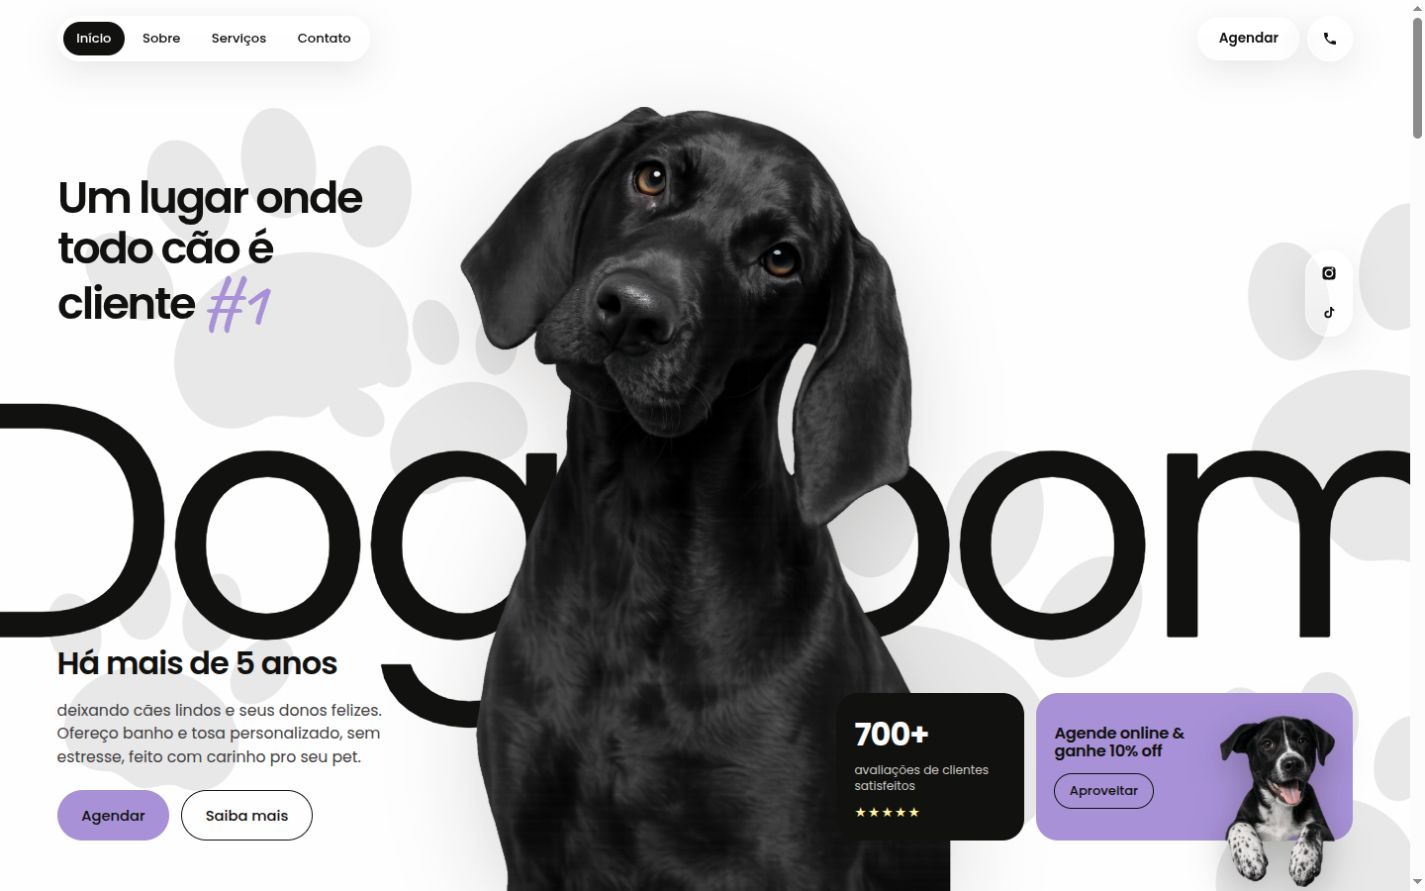
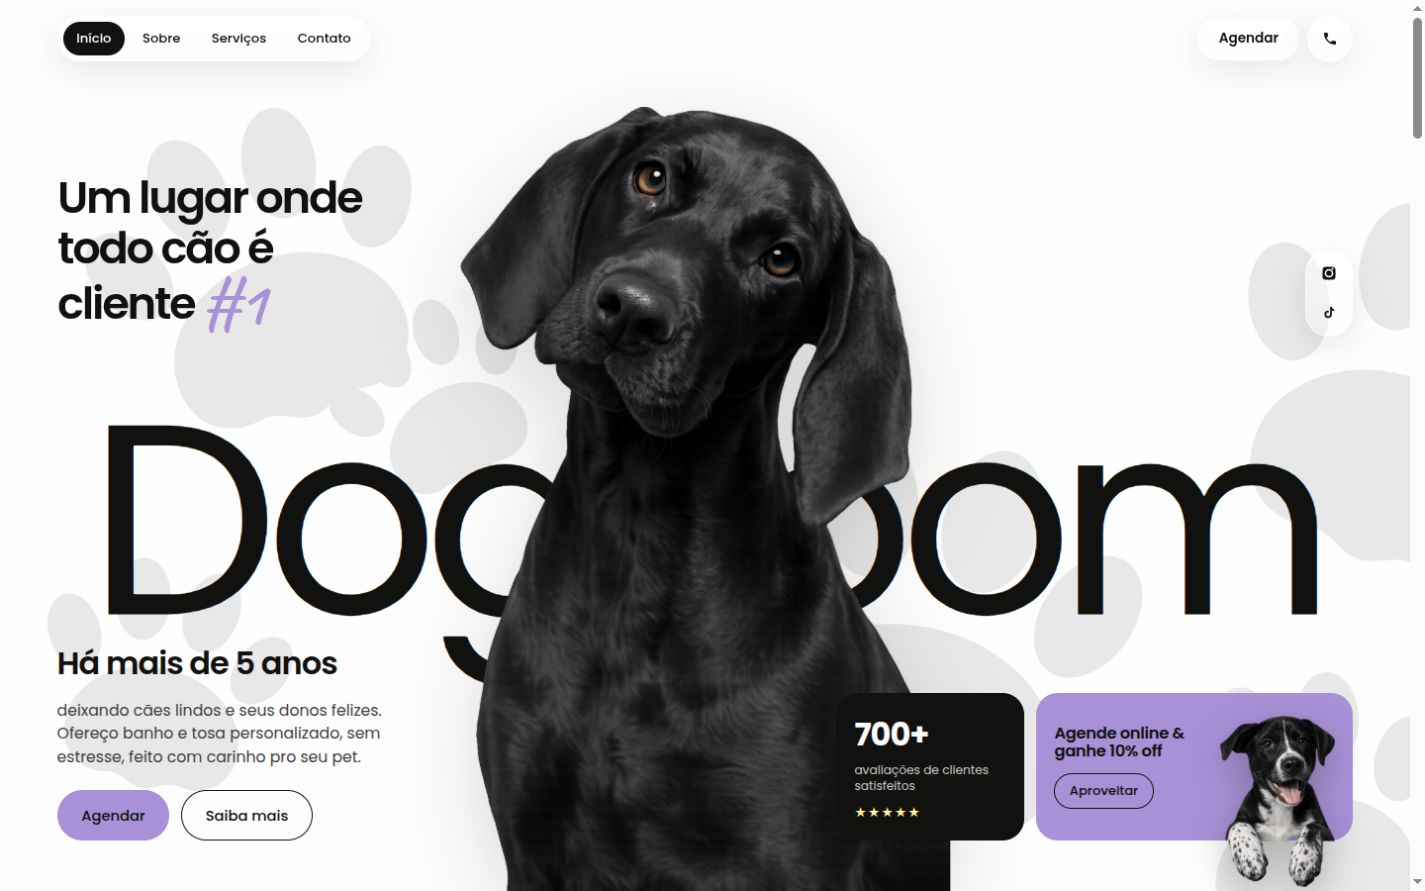
fix: keep hero wordmark within viewport

Changed region(s): [[0.0, 0.4545, 0.4014, 0.8182], [0.5867, 0.4848, 1.0, 0.7273]]

diff --git a/src/styles/globals.css b/src/styles/globals.css
@@ -168,7 +168,7 @@ a[href],button,[role="button"],.btn{cursor:pointer}
 .hero__stage{position:relative;height:clamp(480px,78vh,720px)}
 .hero__wordmark{position:absolute;left:50%;top:54%;transform:translate(-50%,-50%);
   font-family:var(--font);font-weight:400;letter-spacing:-.055em;line-height:.8;color:var(--ink);
-  font-size:clamp(5rem,23.5vw,22.5rem);white-space:nowrap;z-index:1;user-select:none}
+  font-size:clamp(3rem,19vw,22.5rem);white-space:nowrap;z-index:1;user-select:none}
 /* cão ancorado no RODAPÉ da seção (bottom:0 do herói), colado na borda de baixo */
 .hero__dog{position:absolute;left:50%;bottom:0;transform:translateX(-50%);height:min(88vh,900px);
   aspect-ratio:925/1479;z-index:2;filter:drop-shadow(0 24px 44px rgba(17,17,15,.16))}
@@ -219,7 +219,7 @@ a[href],button,[role="button"],.btn{cursor:pointer}
 /* Dedicated small-screen scene keeps the dog, wordmark and copy in flow. */
 .hero__mobile-scene{display:none}
 @media(min-width:901px) and (max-width:1180px){
- .hero__cards{gap:10px}.hero .card--dark{width:150px}.hero .card--purple{width:230px}.hero .card{padding:16px}.hero .card--purple .t{font-size:.9rem}.hero__lead{max-width:26ch}.hero__lead p{font-size:.88rem}.hero__dog{height:min(72vh,780px)}.hero__wordmark{font-size:20vw}
+ .hero__cards{gap:10px}.hero .card--dark{width:150px}.hero .card--purple{width:230px}.hero .card{padding:16px}.hero .card--purple .t{font-size:.9rem}.hero__lead{max-width:26ch}.hero__lead p{font-size:.88rem}.hero__dog{height:min(72vh,780px)}.hero__wordmark{font-size:19vw}
 }
 @media(max-width:900px){
  .nav__inner{justify-content:flex-end}.nav{padding-block:12px}
@@ -238,7 +238,7 @@ a[href],button,[role="button"],.btn{cursor:pointer}
 }
 @media(max-width:480px){
  .hero{padding-top:88px;padding-bottom:38px}.hero__head h1{font-size:clamp(2.1rem,8.8vw,2.65rem)}
- .hero__mobile-scene{height:345px;margin-top:16px}.hero__mobile-scene span{font-size:21vw;top:36%}
+ .hero__mobile-scene{height:345px;margin-top:16px}.hero__mobile-scene span{font-size:20vw;top:36%}
  .hero__lead{margin-top:23px}.hero__lead h2{font-size:1.45rem}.hero__lead p{font-size:.89rem}.hero__cta{gap:10px}.hero__cta .btn{font-size:.83rem;padding:12px 22px}
  .hero__cards{grid-template-columns:.85fr 1.15fr;gap:10px;margin-top:26px}.hero .card{padding:14px}.hero .card--dark .big{font-size:1.7rem}.hero .card--dark .sm{font-size:.68rem}.hero .card--purple{min-height:155px}.hero .card--purple .t{font-size:.8rem;max-width:60%}.hero .card--purple .btn{font-size:.68rem!important;padding:9px 12px!important}.hero .card--purple .carddog{right:-4px;bottom:-25px;height:150px}.hero .card--dark .stars{font-size:.69rem}
 }
